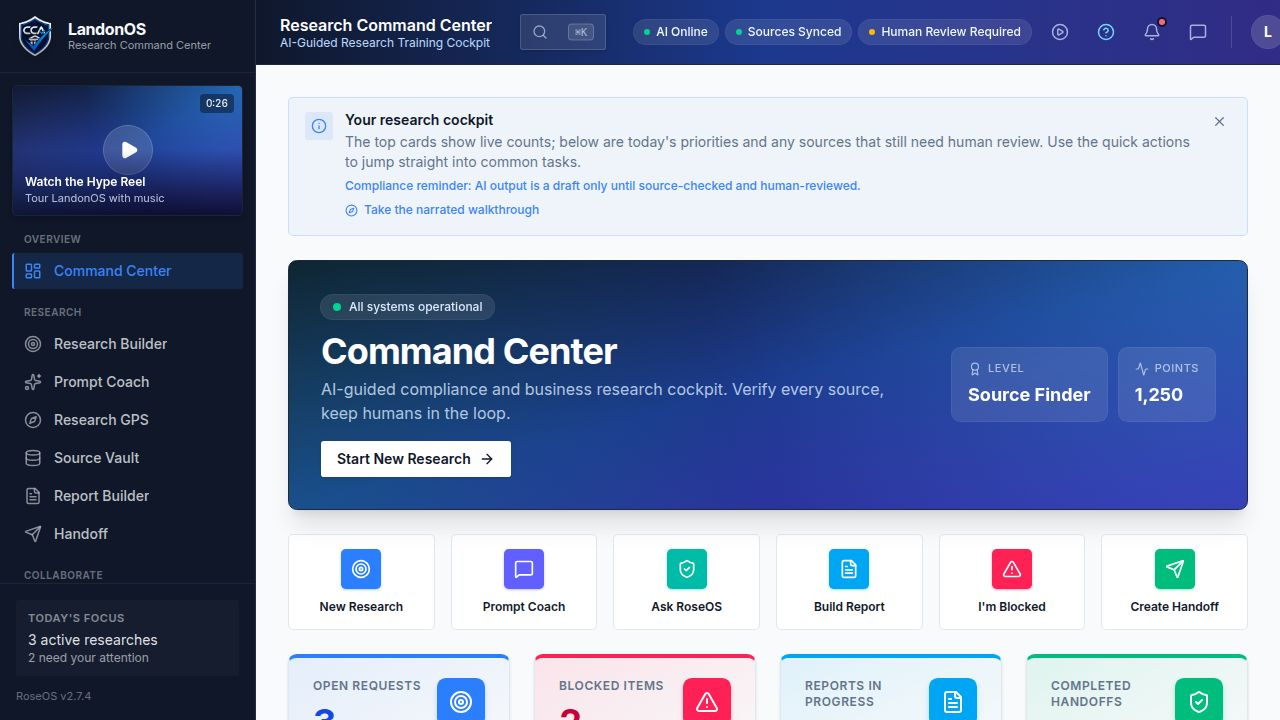
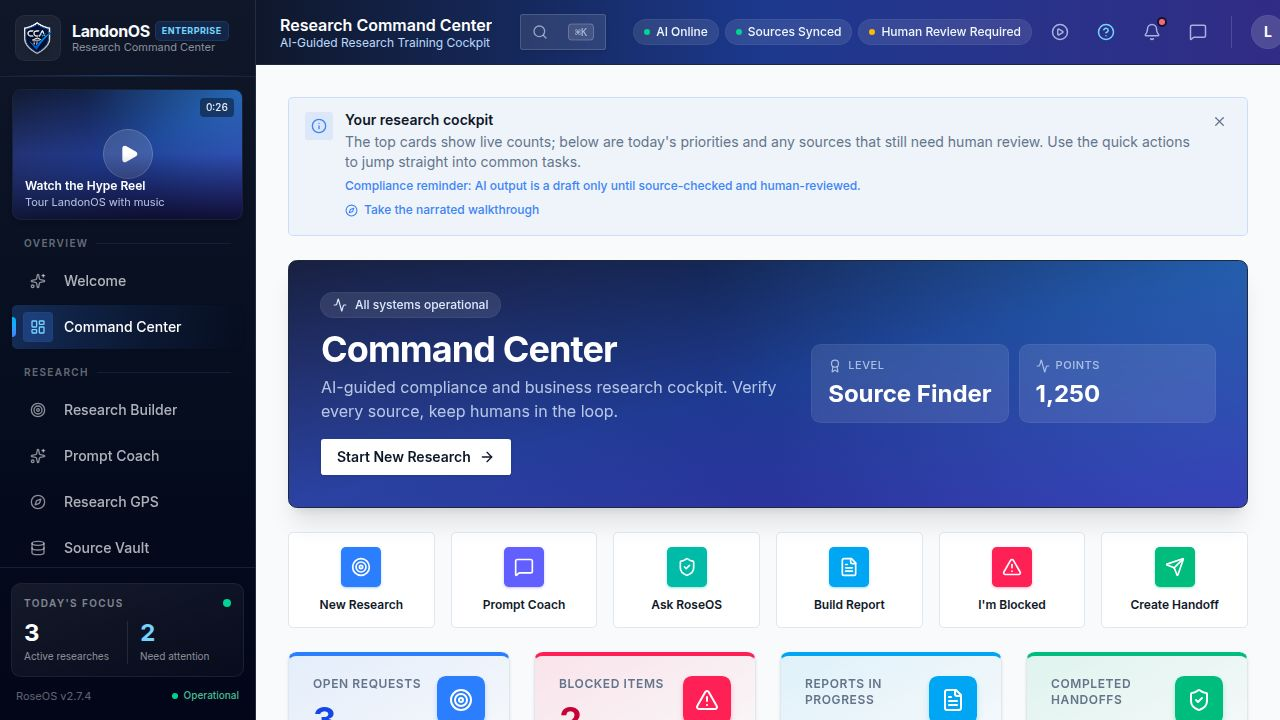
Retrofit all pages onto shared <PageHeader>
Task: give every page the same polished header for consistency.

Converted hand-rolled hero banners to the shared <PageHeader> component on:
dashboard, research-gps, roseos-chat, prompt-coach, reward-center,
training-academy, settings, bonus-tracker, team-lead-track, leaderboard,
account, employee-account, benefits, welcome.

Also swapped the research-gps "no active request" placeholder to the shared
<EmptyState>. 2-stat pages pass statsClassName="grid grid-cols-2 gap-3
shrink-0"; 4-stat pages use the PageHeader default grid.

Drift from plan:
- dashboard lost its animated ping-dot eyebrow (now an Activity icon) for
  consistency with the shared eyebrow API.
- employee-account lost its avatar initials block in the hero; PageHeader has
  no avatar slot. Title/subtitle/stats preserved.
- welcome hero now uses PageHeader with the PDF download as the action slot.

Verified: pnpm --filter @user/landonos run typecheck passes; Command
Center renders correctly in the preview. No KPI/stat-tile regressions.

Replit-Task-Id: 49e71e98-2194-4d53-9fa1-8deea51d9e2f

diff --git a/artifacts/landonos/src/pages/employee-account.tsx b/artifacts/landonos/src/pages/employee-account.tsx
@@ -20,6 +20,7 @@ import {
   type LucideIcon,
 } from "lucide-react";
 import { useToast } from "@/hooks/use-toast";
+import { PageHeader } from "@/components/page-header";
 
 const DOCUMENTS = [
   { id: "d1", name: "Employment Agreement", meta: "PDF · Signed Jan 2024", icon: FileText },
@@ -53,42 +54,17 @@ export default function EmployeeAccountPage() {
 
   return (
     <div className="space-y-6">
-      {/* Hero */}
-      <div className="relative overflow-hidden rounded-xl border border-slate-800 bg-gradient-to-br from-slate-900 via-blue-900 to-indigo-800 p-6 md:p-8 shadow-xl">
-        <div className="pointer-events-none absolute inset-0 bg-[radial-gradient(circle_at_top_right,rgba(56,189,248,0.28),transparent_55%)]" />
-        <div className="pointer-events-none absolute inset-0 bg-[radial-gradient(circle_at_bottom_left,rgba(99,102,241,0.22),transparent_50%)]" />
-        <div className="relative flex flex-col gap-6 lg:flex-row lg:items-center lg:justify-between">
-          <div className="flex items-center gap-4 min-w-0">
-            <div className="flex h-16 w-16 shrink-0 items-center justify-center rounded-2xl bg-white/15 text-2xl font-bold text-white ring-1 ring-white/20">
-              {name.split(" ").map((p) => p[0]).slice(0, 2).join("").toUpperCase()}
-            </div>
-            <div className="min-w-0">
-              <div className="mb-2 inline-flex items-center gap-2 rounded-full bg-white/10 px-3 py-1 text-xs font-medium text-blue-100 ring-1 ring-white/15 backdrop-blur">
-                <Briefcase className="h-3.5 w-3.5" />
-                Employment Record
-              </div>
-              <h1 className="text-3xl md:text-4xl font-bold tracking-tight text-white">{name}</h1>
-              <p className="mt-1 text-sm md:text-base text-blue-100/80">
-                {title} · Compliance & Research
-              </p>
-            </div>
-          </div>
-          <div className="grid grid-cols-2 gap-3 shrink-0">
-            <div className="rounded-xl bg-white/10 px-4 py-3 ring-1 ring-white/15 backdrop-blur">
-              <div className="flex items-center gap-1.5 text-[11px] font-medium uppercase tracking-wider text-blue-100/70">
-                <IdCard className="h-3.5 w-3.5" /> Employee ID
-              </div>
-              <div className="mt-1 text-2xl font-bold text-white">RO-2041</div>
-            </div>
-            <div className="rounded-xl bg-white/10 px-4 py-3 ring-1 ring-white/15 backdrop-blur">
-              <div className="flex items-center gap-1.5 text-[11px] font-medium uppercase tracking-wider text-blue-100/70">
-                <CalendarDays className="h-3.5 w-3.5" /> Tenure
-              </div>
-              <div className="mt-1 text-2xl font-bold text-white">2.4 yrs</div>
-            </div>
-          </div>
-        </div>
-      </div>
+      <PageHeader
+        icon={Briefcase}
+        eyebrow="Employment Record"
+        title={name}
+        subtitle={`${title} · Compliance & Research`}
+        statsClassName="grid grid-cols-2 gap-3 shrink-0"
+        stats={[
+          { label: "Employee ID", value: "RO-2041", icon: IdCard },
+          { label: "Tenure", value: "2.4 yrs", icon: CalendarDays },
+        ]}
+      />
 
       {/* Informational notice */}
       <div className="flex items-start gap-3 rounded-lg border border-sky-500/30 bg-sky-500/5 px-4 py-3">

diff --git a/artifacts/landonos/src/pages/welcome.tsx b/artifacts/landonos/src/pages/welcome.tsx
@@ -18,6 +18,7 @@ import {
 import { cn } from "@/lib/utils";
 import { useToast } from "@/hooks/use-toast";
 import { OnboardingScene } from "@/components/onboarding-scenes";
+import { PageHeader } from "@/components/page-header";
 import {
   ONBOARDING_SECTIONS,
   ONBOARDING_MUSIC,
@@ -216,34 +217,22 @@ export default function Welcome() {
       <audio ref={narrationRef} preload="auto" className="hidden" />
       <audio ref={musicRef} src={onboardingAsset(ONBOARDING_MUSIC)} preload="auto" className="hidden" />
 
-      {/* Hero */}
-      <section className="relative overflow-hidden rounded-2xl border border-slate-800 bg-gradient-to-br from-slate-900 via-blue-900 to-indigo-900 p-6 md:p-8">
-        <div className="pointer-events-none absolute inset-0 bg-[radial-gradient(circle_at_top_right,rgba(56,189,248,0.3),transparent_55%)]" />
-        <div className="relative flex flex-col gap-5 md:flex-row md:items-center md:justify-between">
-          <div className="flex items-start gap-4">
-            <span className="flex h-12 w-12 shrink-0 items-center justify-center rounded-xl bg-white/10 ring-1 ring-white/20 backdrop-blur">
-              <Sparkles className="h-6 w-6 text-sky-300" />
-            </span>
-            <div>
-              <h2 className="text-2xl font-black tracking-tight text-white md:text-3xl">
-                Welcome to LandonOS
-              </h2>
-              <p className="mt-1 max-w-xl text-sm text-blue-100/80 md:text-base">
-                Get oriented three ways — watch the narrated tour, step through the guided
-                walkthrough at your own pace, or download the written user guide.
-              </p>
-            </div>
-          </div>
+      <PageHeader
+        icon={Sparkles}
+        eyebrow="Welcome & Onboarding"
+        title="Welcome to LandonOS"
+        subtitle="Get oriented three ways — watch the narrated tour, step through the guided walkthrough at your own pace, or download the written user guide."
+        action={
           <a
             href={USER_GUIDE_PDF}
             download
-            className="inline-flex shrink-0 items-center gap-2 self-start rounded-lg bg-white px-4 py-2.5 text-sm font-semibold text-slate-900 shadow-md transition-colors hover:bg-blue-50 md:self-auto"
+            className="inline-flex items-center gap-2 rounded-lg bg-white px-4 py-2.5 text-sm font-semibold text-slate-900 shadow-md transition-colors hover:bg-blue-50"
           >
             <Download className="h-4 w-4" />
             User Guide (PDF)
           </a>
-        </div>
-      </section>
+        }
+      />
 
       {/* Mode toggle */}
       <div className="flex flex-col items-center gap-2">

diff --git a/artifacts/landonos/src/pages/research-gps.tsx b/artifacts/landonos/src/pages/research-gps.tsx
@@ -9,6 +9,7 @@ import { Badge } from "@/components/ui/badge";
 import { Progress } from "@/components/ui/progress";
 import { Compass, CheckCircle2, Circle, Clock, AlertTriangle, ArrowRight, ListChecks } from "lucide-react";
 import { cn } from "@/lib/utils";
+import { EmptyState } from "@/components/empty-state";
 
 const STEP_BORDER: Record<Status, string> = {
   "Complete": "border-l-emerald-500 bg-emerald-500/5",
@@ -70,17 +71,16 @@ export default function ResearchGPS() {
 
   return (
     <div className="space-y-6 max-w-4xl mx-auto">
-      {/* Executive hero banner */}
       <PageHeader
         icon={Compass}
         eyebrow="10-step workflow"
         title="Research GPS"
         subtitle="Navigate every research mission through a disciplined, auditable 10-step path — from scoping the question to handoff for human review."
+        statsClassName="grid grid-cols-2 gap-3 shrink-0"
         stats={[
           { label: "Workflow Steps", value: GPS_STEPS.length, icon: CheckCircle2 },
           { label: "Active Missions", value: activeMissions.length, icon: Clock },
         ]}
-        statsClassName="grid grid-cols-2 gap-3 shrink-0"
       />
 
       <Card className="border-t-4 border-t-blue-500">
@@ -106,10 +106,11 @@ export default function ResearchGPS() {
       </Card>
 
       {!activeRequest ? (
-        <div className="h-64 flex flex-col items-center justify-center border-2 border-dashed border-border rounded-xl text-muted-foreground">
-          <Compass className="w-12 h-12 mb-4 opacity-20" />
-          <p>Select a research request to view its GPS path.</p>
-        </div>
+        <EmptyState
+          icon={Compass}
+          description="Select a research request to view its GPS path."
+          className="h-64"
+        />
       ) : (
         <div className="space-y-8 animate-in fade-in duration-300">
           {(() => {

diff --git a/artifacts/landonos/src/pages/reward-center.tsx b/artifacts/landonos/src/pages/reward-center.tsx
@@ -26,10 +26,10 @@ export default function RewardCenter() {
         title="Reward Center"
         subtitle="Track your professional growth — quality and thoroughness are rewarded over speed."
         stats={[
-          { label: "Level", value: rewardState.level },
-          { label: "Points", value: rewardState.points },
-          { label: "Badges", value: rewardState.badges.length },
-          { label: "To Next", value: `${progress.percent}%` },
+          { label: "Level", value: rewardState.level, icon: Award },
+          { label: "Points", value: rewardState.points, icon: Star },
+          { label: "Badges", value: rewardState.badges.length, icon: Medal },
+          { label: "To Next", value: `${progress.percent}%`, icon: TrendingUp },
         ]}
       />
       

diff --git a/artifacts/landonos/src/pages/training-academy.tsx b/artifacts/landonos/src/pages/training-academy.tsx
@@ -96,10 +96,10 @@ export default function TrainingAcademy() {
         title="Training Academy"
         subtitle="Master the art of AI-guided, source-verified intelligence gathering — one lesson at a time."
         stats={[
-          { label: "Completed", value: completedLessons },
-          { label: "Lessons", value: allLessons.length },
-          { label: "Progress", value: `${progressPercent}%` },
-          { label: "Tracks", value: tracks.length },
+          { label: "Completed", value: completedLessons, icon: CheckCircle2 },
+          { label: "Lessons", value: allLessons.length, icon: GraduationCap },
+          { label: "Progress", value: `${progressPercent}%`, icon: ListChecks },
+          { label: "Tracks", value: tracks.length, icon: BookOpen },
         ]}
       />
       

diff --git a/artifacts/landonos/src/pages/account.tsx b/artifacts/landonos/src/pages/account.tsx
@@ -80,17 +80,16 @@ export default function AccountPage() {
 
   return (
     <div className="space-y-6">
-      {/* Hero */}
       <PageHeader
         icon={UserCog}
         eyebrow="Account & Security"
         title="My Account"
         subtitle="Manage your sign-in, security, and personal app preferences. These are your own settings — not HR or payroll records."
+        statsClassName="grid grid-cols-2 gap-3 shrink-0"
         stats={[
           { label: "2FA", value: twoFactor ? "On" : "Off", icon: ShieldCheck },
           { label: "Sessions", value: sessions.length, icon: Monitor },
         ]}
-        statsClassName="grid grid-cols-2 gap-3 shrink-0"
       />
 
       {/* Sign-in & security */}

diff --git a/artifacts/landonos/src/pages/benefits.tsx b/artifacts/landonos/src/pages/benefits.tsx
@@ -54,17 +54,16 @@ export default function BenefitsPage() {
 
   return (
     <div className="space-y-6">
-      {/* Hero */}
       <PageHeader
         icon={HeartPulse}
         eyebrow="Benefits & Time Off"
         title="My Benefits"
         subtitle="Review your time-off balances, health coverage, and perks. Plan changes are handled by HR and Payroll."
+        statsClassName="grid grid-cols-2 gap-3 shrink-0"
         stats={[
           { label: "PTO Left", value: "11 days", icon: Plane },
           { label: "Plans", value: "3 active", icon: Shield },
         ]}
-        statsClassName="grid grid-cols-2 gap-3 shrink-0"
       />
 
       {/* Time-off balances */}

diff --git a/artifacts/landonos/src/pages/bonus-tracker.tsx b/artifacts/landonos/src/pages/bonus-tracker.tsx
@@ -66,17 +66,16 @@ export default function BonusTrackerPage() {
 
   return (
     <div className="space-y-6">
-      {/* Hero */}
       <PageHeader
         icon={Wallet}
         eyebrow="Incentive & Bonus Tracker"
         title="Bonus Tracker"
         subtitle={`${name}'s performance incentives for the year. Amounts are calculated by Finance and paid through Payroll — informational only.`}
+        statsClassName="grid grid-cols-2 gap-3 shrink-0"
         stats={[
           { label: "Earned YTD", value: fmt(ytd), icon: TrendingUp },
           { label: "Pending", value: fmt(pending), icon: Clock },
         ]}
-        statsClassName="grid grid-cols-2 gap-3 shrink-0"
       />
 
       {/* Metric strip */}

diff --git a/artifacts/landonos/src/pages/dashboard.tsx b/artifacts/landonos/src/pages/dashboard.tsx
@@ -78,7 +78,6 @@ export default function Dashboard() {
 
   return (
     <div className="space-y-6">
-      {/* Executive hero banner */}
       <PageHeader
         eyebrow={
           <>
@@ -91,6 +90,7 @@ export default function Dashboard() {
         }
         title="Command Center"
         subtitle="AI-guided compliance and business research cockpit. Verify every source, keep humans in the loop."
+        statsClassName="grid grid-cols-2 gap-3 shrink-0"
         action={
           <Link
             href="/guided-research-builder?new=1"
@@ -103,7 +103,6 @@ export default function Dashboard() {
           { label: "Level", value: data.rewardState.level, icon: Award },
           { label: "Points", value: data.rewardState.points.toLocaleString(), icon: Activity },
         ]}
-        statsClassName="flex shrink-0 items-stretch gap-3"
       />
 
       {/* Quick Actions */}

diff --git a/artifacts/landonos/src/pages/leaderboard.tsx b/artifacts/landonos/src/pages/leaderboard.tsx
@@ -61,17 +61,16 @@ export default function LeaderboardPage() {
 
   return (
     <div className="space-y-6">
-      {/* Hero */}
       <PageHeader
         icon={Trophy}
         eyebrow="Research Team Leaderboard"
         title="Leaderboard"
         subtitle="Friendly competition across the research team. Points come from verified, human-reviewed work."
+        statsClassName="grid grid-cols-2 gap-3 shrink-0"
         stats={[
           { label: "Your Rank", value: `#${myRank}`, icon: Trophy },
           { label: "Streak", value: `${me.streak} wks`, icon: Flame },
         ]}
-        statsClassName="grid grid-cols-2 gap-3 shrink-0"
       />
 
       {/* Metric strip */}

diff --git a/artifacts/landonos/src/pages/prompt-coach.tsx b/artifacts/landonos/src/pages/prompt-coach.tsx
@@ -58,17 +58,16 @@ export default function PromptCoach() {
 
   return (
     <div className="space-y-6 max-w-5xl mx-auto">
-      {/* Executive hero banner */}
       <PageHeader
         icon={Sparkles}
         eyebrow="Prompt engineering"
         title="AI Prompt Coach"
         subtitle="Transform rough questions into disciplined, source-backed executive prompts. Every rewrite keeps verification and human review in the loop."
+        statsClassName="grid grid-cols-2 gap-3 shrink-0"
         stats={[
           { label: "Strategies", value: 6, icon: Target },
           { label: "Output", value: <span className="text-sm">Draft until reviewed</span>, icon: ShieldAlert },
         ]}
-        statsClassName="grid grid-cols-2 gap-3 shrink-0"
       />
 
       <Alert variant="default" className="bg-destructive/10 text-destructive border-destructive/20">

diff --git a/artifacts/landonos/src/pages/roseos-chat.tsx b/artifacts/landonos/src/pages/roseos-chat.tsx
@@ -167,17 +167,16 @@ export default function RoseOSChat() {
 
   return (
     <div className="space-y-6 h-full flex flex-col">
-      {/* Executive hero banner */}
       <PageHeader
         icon={ShieldCheck}
         eyebrow="Research mentor"
         title="RoseOS Chat"
         subtitle="Your AI-guided mentor for research strategy and planning — structured prompts and next steps, always paired with source and human-review reminders."
+        statsClassName="grid grid-cols-2 gap-3 shrink-0"
         stats={[
           { label: "Guidance Modes", value: CHAT_MODES.length, icon: MessageSquare },
           { label: "Human Review", value: "Required", icon: ShieldCheck },
         ]}
-        statsClassName="grid grid-cols-2 gap-3 shrink-0"
       />
 
       <div className="bg-primary/10 border border-primary/20 text-primary-foreground p-3 rounded-md flex items-start gap-3">